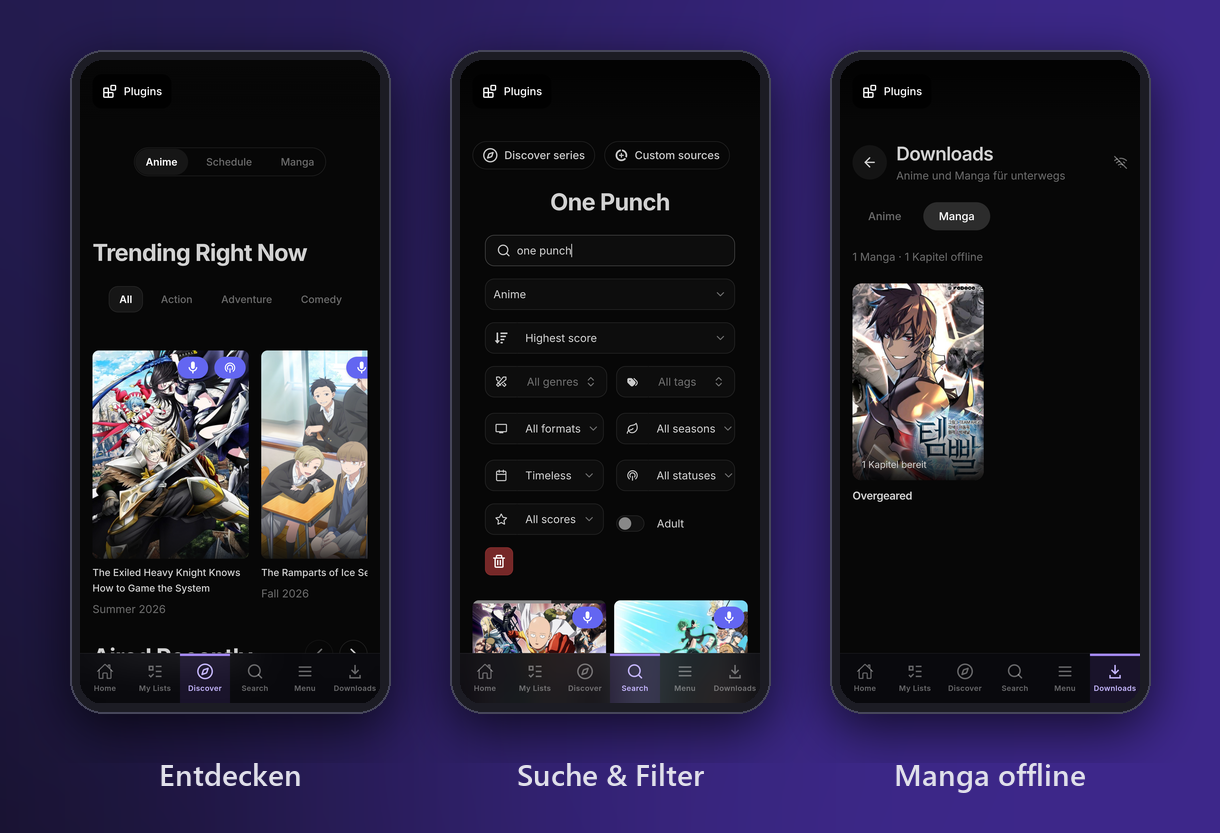
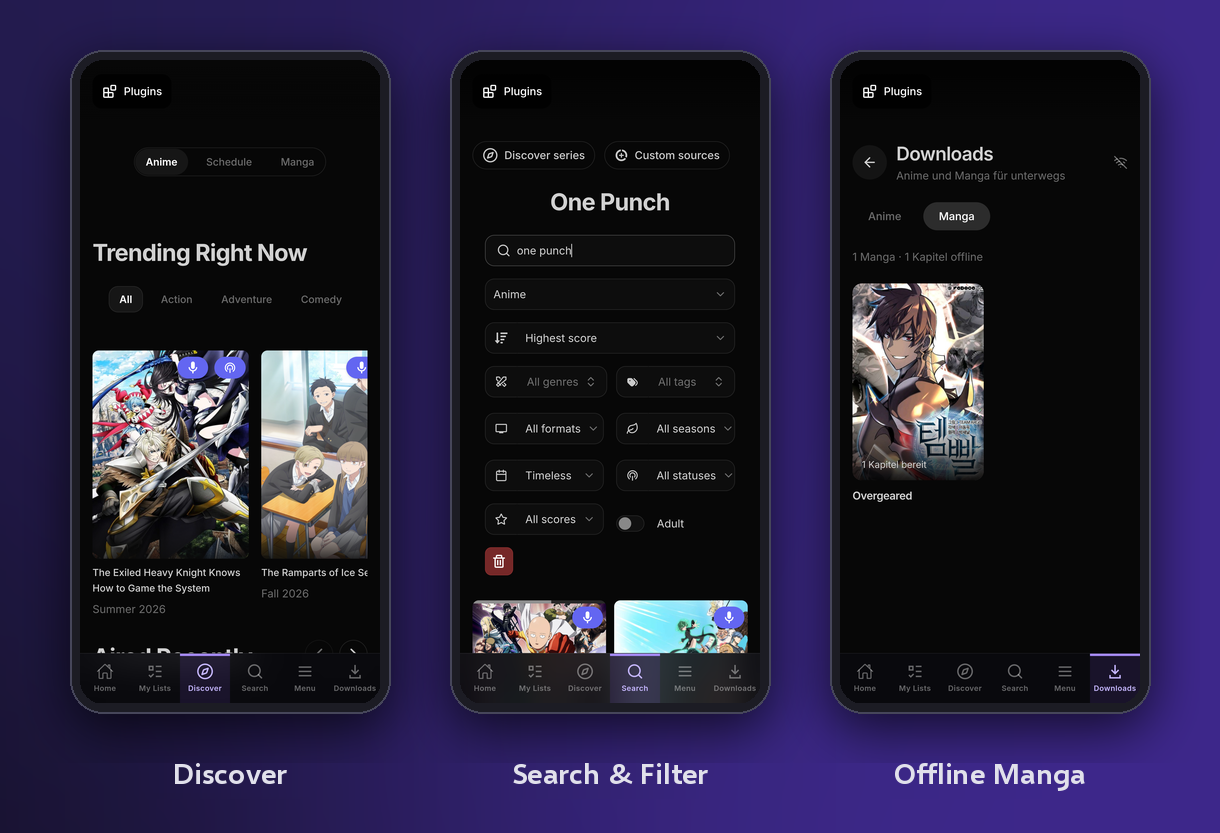
Translate README and screenshot captions to English

Changed region(s): [[0.7164, 0.9052, 0.9033, 0.9676], [0.4049, 0.9052, 0.5918, 0.9676], [0.1246, 0.9052, 0.2492, 0.9676]]

diff --git a/README.md b/README.md
@@ -6,123 +6,125 @@
   <a href="https://github.com/Lampe332/seanime-mobile/releases/latest"><img src="https://img.shields.io/github/v/release/Lampe332/seanime-mobile?style=for-the-badge&color=7c5cff&label=Version" alt="Version"></a>
   <a href="https://github.com/Lampe332/seanime-mobile/releases/latest"><img src="https://img.shields.io/github/downloads/Lampe332/seanime-mobile/total?style=for-the-badge&color=7c5cff&label=Downloads" alt="Downloads"></a>
   <img src="https://img.shields.io/badge/Android-5.0%2B-3ddc84?style=for-the-badge&logo=android&logoColor=white" alt="Android 5.0+">
-  <a href="LICENSE"><img src="https://img.shields.io/github/license/Lampe332/seanime-mobile?style=for-the-badge&color=555" alt="Lizenz"></a>
+  <a href="LICENSE"><img src="https://img.shields.io/github/license/Lampe332/seanime-mobile?style=for-the-badge&color=555" alt="License"></a>
 </p>
 
 <p align="center">
-  <a href="https://github.com/Lampe332/seanime-mobile/releases/latest/download/Seanime-Mobile-1.7.0.apk"><b>⬇ APK herunterladen</b></a>
-  &nbsp;·&nbsp; <a href="#-installation-auf-dem-handy">Installation</a>
-  &nbsp;·&nbsp; <a href="#-erste-einrichtung">Einrichtung</a>
-  &nbsp;·&nbsp; <a href="#-tutorial-video">Tutorial-Video</a>
-  &nbsp;·&nbsp; <a href="docs/BUILD.md">Selbst bauen</a>
+  <a href="https://github.com/Lampe332/seanime-mobile/releases/latest/download/Seanime-Mobile-1.7.0.apk"><b>⬇ Download APK</b></a>
+  &nbsp;·&nbsp; <a href="#-installing-on-your-phone">Installation</a>
+  &nbsp;·&nbsp; <a href="#-first-time-setup">Setup</a>
+  &nbsp;·&nbsp; <a href="#-tutorial-video">Tutorial video</a>
+  &nbsp;·&nbsp; <a href="docs/BUILD.md">Build it yourself</a>
   &nbsp;·&nbsp; <a href="CHANGELOG.md">Changelog</a>
 </p>
 
 ---
 
-**Seanime Mobile** bringt [Seanime](https://github.com/5rahim/seanime) komplett aufs Android-Handy: Der Seanime-Server läuft direkt auf dem Gerät, die Oberfläche ist für Touch angepasst. Kein PC, kein eigener Server nötig. Anime streamen, ganze Staffeln herunterladen und unterwegs offline schauen. Dazu kommen Manga, AniList-Sync und ein Veröffentlichungskalender.
+**Seanime Mobile** brings [Seanime](https://github.com/5rahim/seanime) entirely to your Android phone: the Seanime server runs directly on the device, and the interface is adapted for touch. No PC and no server of your own required. Stream anime, download whole seasons and watch offline on the go. On top of that you get manga, AniList sync and a release calendar.
 
-## ✨ Funktionen
+## ✨ Features
 
-| Funktion | Beschreibung |
+| Feature | Description |
 |---|---|
-| 📺 **Streamen** | Anime über Online-Streaming-Erweiterungen direkt in der App schauen |
-| ⬇ **Staffel-Downloads** | Ganze Staffel, „ab Folge …“ oder einzelne Folgen herunterladen, mit Warteschlange, die einen App-Neustart übersteht |
-| ✈ **Offline schauen** | Eigener Offline-Player mit Vollbild, −5/+10 s, Tempo, Untertiteln und Fortsetzen; Cover und Infos bleiben offline sichtbar |
-| 📚 **Manga** | Kapitel lesen und herunterladen, offline im Reader öffnen |
-| 📅 **Kalender** | Monatskalender mit allen Folgen deiner AniList-Liste oder aller Anime, filterbar nach Status |
-| 🔄 **AniList** | Listen, Fortschritt und Bewertungen werden mit AniList synchronisiert |
-| 🧩 **Erweiterungen & Plugins** | Quellen und Plugins aus dem Seanime-Ökosystem |
-| 🧭 **Einrichtungs-Tutorial** | Interaktive Tour beim ersten Start zeigt, wie man ein Repository hinzufügt und Quellen installiert |
+| 📺 **Streaming** | Watch anime right in the app via online streaming extensions |
+| ⬇ **Season downloads** | Download a whole season, "from episode …" or single episodes, with a queue that survives an app restart |
+| ✈ **Offline viewing** | Dedicated offline player with fullscreen, −5/+10 s, playback speed, subtitles and resume; covers and info stay visible offline |
+| 📚 **Manga** | Read and download chapters, open them offline in the reader |
+| 📅 **Calendar** | Monthly calendar with all episodes from your AniList list or from all anime, filterable by status |
+| 🔄 **AniList** | Lists, progress and ratings are synced with AniList |
+| 🧩 **Extensions & plugins** | Sources and plugins from the Seanime ecosystem |
+| 🧭 **Setup tutorial** | An interactive tour on first launch shows how to add a repository and install sources |
 
 ## 📱 Screenshots
 
-<p align="center"><img src="docs/images/gallery-discover.png" alt="Startseite, Sendeplan, Kalender, Anime-Details" width="100%"></p>
-<p align="center"><img src="docs/images/gallery-offline.png" alt="Staffel laden, Downloads, Deine Folgen, Offline-Player" width="100%"></p>
-<p align="center"><img src="docs/images/gallery-more.png" alt="Entdecken, Suche, Manga offline" width="76%"></p>
+<p align="center"><img src="docs/images/gallery-discover.png" alt="Home, airing schedule, calendar, anime details" width="100%"></p>
+<p align="center"><img src="docs/images/gallery-offline.png" alt="Season download, downloads, your episodes, offline player" width="100%"></p>
+<p align="center"><img src="docs/images/gallery-more.png" alt="Discover, search, offline manga" width="76%"></p>
 
-## 📲 Installation auf dem Handy
+> The app's own interface is currently partly in German, so some labels inside the screenshots are German.
 
-1. Auf dem Handy die neueste **[Seanime-Mobile-APK](https://github.com/Lampe332/seanime-mobile/releases/latest)** öffnen und unter *Assets* die `.apk` herunterladen.
-2. Die heruntergeladene Datei antippen (Benachrichtigung oder *Eigene Dateien → Downloads*).
-3. Android fragt beim ersten Mal nach der Berechtigung **„Unbekannte Apps installieren“**. Für den Browser bzw. Dateimanager erlauben und zurückgehen.
-4. **Installieren** tippen. Fertig: Die App heißt *Seanime Mobile*.
+## 📲 Installing on your phone
 
-> **Update:** Neue APK einfach drüber installieren, Daten und Downloads bleiben erhalten.
-> **Play Protect** warnt eventuell, weil die App nicht aus dem Play Store kommt. *Trotzdem installieren* wählen.
+1. On your phone, open the latest **[Seanime Mobile APK](https://github.com/Lampe332/seanime-mobile/releases/latest)** and download the `.apk` under *Assets*.
+2. Tap the downloaded file (from the notification or *My Files → Downloads*).
+3. The first time, Android asks for the **"Install unknown apps"** permission. Allow it for your browser or file manager and go back.
+4. Tap **Install**. Done: the app is called *Seanime Mobile*.
 
-Unterstützt: Android 5.0 oder neuer, ARM64 und ARMv7 (praktisch alle Handys der letzten Jahre). Getestet auf Samsung Galaxy S22 Ultra.
+> **Updating:** Simply install the new APK over the old one; your data and downloads are kept.
+> **Play Protect** may show a warning because the app doesn't come from the Play Store. Choose *Install anyway*.
 
-## 🚀 Erste Einrichtung
+Supported: Android 5.0 or newer, ARM64 and ARMv7 (practically every phone from recent years). Tested on a Samsung Galaxy S22 Ultra.
 
-1. **App öffnen.** Ein kurzer Assistent fragt nach einem Anime-Ordner (optional, leer lassen ist ok) und den Funktionen. **Launch Seanime** tippen. Android fragt außerdem nach Dateizugriff (*Use streaming* reicht) und Benachrichtigungen (für den Download-Fortschritt).
-2. **Mit AniList anmelden.** Im Dialog **Get AniList token** tippen, im Browser bestätigen und den Token einfügen. Ein kostenloses Konto gibt es auf [anilist.co](https://anilist.co). Ohne Anmeldung den Dialog mit ✕ schließen, dann nutzt die App ein lokales Konto.
-3. **Quellen hinzufügen.** Danach startet automatisch ein **interaktives Tutorial**, das dich durch die folgenden Schritte führt ([Video](#-tutorial-video)). Später erneut starten: *Settings → Extensions → Show tutorial*.
-   Die App bringt **keine** Streaming- oder Manga-Quellen mit. Der offizielle Seanime-Marktplatz enthält nur Plugins. Quellen kommen aus Community-Repositories, die du selbst hinzufügst:
-   1. *Menu → Extensions* öffnen und oben den Tab **Marketplace** wählen.
-   2. **Change repository** tippen und die **Repository-URL** einfügen (eine Adresse, die auf eine `.json`-Datei endet). Passende Seanime-Extension-Repositories findest du online in der Seanime-Community.
-   3. Die Liste lädt neu. Oben **Online Streaming** (bzw. **Manga**) wählen und bei der gewünschten Erweiterung auf das **Download-Symbol** tippen.
-   4. Alternativ: im Tab *Installed* → **Add extensions** → **Import from repository**. Damit werden alle Erweiterungen eines Repositories auf einmal installiert.
+## 🚀 First-time setup
 
-   Ohne Erweiterung kann die App Anime und Manga nur anzeigen, nicht abspielen bzw. lesen. Torrent-Erweiterungen funktionieren in der Android-Version nicht.
-4. **Loslegen.** Anime antippen → *Online streaming* zum Schauen oder *Staffel / Folgen herunterladen* für offline. Gespeichertes findest du unten im Tab **Downloads**.
+1. **Open the app.** A short wizard asks for an anime folder (optional, leaving it empty is fine) and which features to use. Tap **Launch Seanime**. Android will also ask for file access (*Use streaming* is enough) and notifications (for download progress).
+2. **Log in with AniList.** In the dialog, tap **Get AniList token**, confirm in the browser and paste the token. You can create a free account at [anilist.co](https://anilist.co). To skip login, close the dialog with ✕ and the app will use a local account.
+3. **Add sources.** An **interactive tutorial** then starts automatically and guides you through the following steps ([video](#-tutorial-video)). To run it again later: *Settings → Extensions → Show tutorial*.
+   The app ships **without** any streaming or manga sources. The official Seanime marketplace only contains plugins. Sources come from community repositories that you add yourself:
+   1. Open *Menu → Extensions* and select the **Marketplace** tab at the top.
+   2. Tap **Change repository** and paste the **repository URL** (an address ending in a `.json` file). You can find suitable Seanime extension repositories online in the Seanime community.
+   3. The list reloads. Select **Online Streaming** (or **Manga**) at the top and tap the **download icon** next to the extension you want.
+   4. Alternatively: in the *Installed* tab → **Add extensions** → **Import from repository**. This installs all extensions from a repository at once.
 
-## 🎬 Tutorial-Video
+   Without an extension, the app can only display anime and manga, not play or read them. Torrent extensions do not work in the Android version.
+4. **Get started.** Tap an anime → *Online streaming* to watch, or *Download season / episodes* for offline viewing. Your saved content is in the **Downloads** tab at the bottom.
 
-So sieht der erste Start mit dem eingebauten Tutorial aus: Assistent, Repository hinzufügen, Streaming-Erweiterung installieren. Die Repository-Adresse und die Namen der Erweiterungen sind im Video unkenntlich gemacht.
+## 🎬 Tutorial video
+
+This is what the first launch with the built-in tutorial looks like: wizard, adding a repository, installing a streaming extension. The repository address and the extension names are blurred in the video.
 
 <p align="center">
-  <img src="docs/images/tutorial.gif" alt="Tutorial: Repository hinzufügen und Erweiterung installieren" width="300">
+  <img src="docs/images/tutorial.gif" alt="Tutorial: adding a repository and installing an extension" width="300">
 </p>
-<p align="center"><a href="docs/images/tutorial.mp4">▶ Video in voller Qualität (MP4)</a></p>
+<p align="center"><a href="docs/images/tutorial.mp4">▶ Full-quality video (MP4)</a></p>
 
-## ❓ Häufige Fragen
+## ❓ FAQ
 
 <details>
-<summary><b>„App nicht installiert“ beim Update</b></summary>
+<summary><b>"App not installed" when updating</b></summary>
 
-Die neue APK muss mit demselben Schlüssel signiert sein wie die installierte. Das ist bei allen offiziellen Releases hier der Fall. Wenn du vorher eine selbst gebaute oder fremde Version installiert hattest, die alte App zuerst deinstallieren (dabei gehen lokale Downloads verloren).
+The new APK must be signed with the same key as the installed one. That is the case for all official releases here. If you previously installed a self-built or third-party version, uninstall the old app first (local downloads will be lost).
 </details>
 
 <details>
-<summary><b>„No content providers available“ / keine Streaming-Quellen</b></summary>
+<summary><b>"No content providers available" / no streaming sources</b></summary>
 
-Das ist normal bei einer frischen Installation: Der Standard-Marktplatz enthält keine Streaming- oder Manga-Quellen. Füge wie unter [Erste Einrichtung](#-erste-einrichtung), Schritt 3, ein Community-Repository hinzu. Dieses Projekt verlinkt bewusst keine Quellen und hat mit deren Inhalten nichts zu tun.
+This is normal on a fresh install: the default marketplace contains no streaming or manga sources. Add a community repository as described in [First-time setup](#-first-time-setup), step 3. This project deliberately does not link to any sources and has nothing to do with their content.
 </details>
 
 <details>
-<summary><b>Eine Folge spielt nicht ab</b></summary>
+<summary><b>An episode won't play</b></summary>
 
-Meist liegt es an der Quelle. Im Player bzw. auf der Animeseite eine andere Erweiterung wählen oder unter *Menu → Extensions* die Erweiterungen aktualisieren.
+It's usually the source. Pick a different extension in the player or on the anime page, or update your extensions under *Menu → Extensions*.
 </details>
 
 <details>
-<summary><b>Gibt es Torrents?</b></summary>
+<summary><b>Are there torrents?</b></summary>
 
-Nein. Torrent- und Debrid-Funktionen sind in der Android-Version bewusst deaktiviert. Downloads laufen über direkte MP4-/HLS-Quellen.
+No. Torrent and debrid features are deliberately disabled in the Android version. Downloads use direct MP4/HLS sources.
 </details>
 
 <details>
-<summary><b>Wo liegen meine Downloads?</b></summary>
+<summary><b>Where are my downloads stored?</b></summary>
 
-Im privaten App-Speicher. Sie sind nur in der App unter *Downloads* sichtbar und werden beim Deinstallieren gelöscht.
+In the app's private storage. They are only visible inside the app under *Downloads* and are deleted when you uninstall it.
 </details>
 
-## 🛠 Selbst bauen
+## 🛠 Build it yourself
 
-Das Repository enthält den kompletten Quellcode: Android-App (Kotlin), Seanime-Backend (Go) und Oberfläche (React). Die Schritt-für-Schritt-Anleitung steht in **[docs/BUILD.md](docs/BUILD.md)**.
+The repository contains the complete source code: Android app (Kotlin), Seanime backend (Go) and interface (React). Step-by-step instructions are in **[docs/BUILD.md](docs/BUILD.md)**.
 
 ```
-app/            Android-App (Kotlin, WebView, Offline-Player, Download-Dienst)
-backend/        Seanime-Server (Go) + Weboberfläche (backend/seanime-web, React)
-docs/           Bau-Anleitung, Bilder, Upstream-Doku, Entwicklungsnotizen
-tests/          Navigations- und Plugin-Tests (Python/Playwright)
-Build.ps1       Kompletter Release-Build inkl. Backend
+app/            Android app (Kotlin, WebView, offline player, download service)
+backend/        Seanime server (Go) + web interface (backend/seanime-web, React)
+docs/           Build guide, images, upstream docs, development notes
+tests/          Navigation and plugin tests (Python/Playwright)
+Build.ps1       Full release build including the backend
 ```
 
-## 🙏 Credits & Lizenz
+## 🙏 Credits & license
 
-- [**Seanime**](https://github.com/5rahim/seanime) von 5rahim: Backend und Weboberfläche
-- [**Seanime Android**](https://github.com/Pal-droid/Seanime-Android) von Pal-droid: ursprüngliche Android-Portierung ([Original-README](docs/upstream/README.md))
+- [**Seanime**](https://github.com/5rahim/seanime) by 5rahim: backend and web interface
+- [**Seanime Android**](https://github.com/Pal-droid/Seanime-Android) by Pal-droid: original Android port ([original README](docs/upstream/README.md))
 
-Seanime Mobile ist ein unabhängiger Fork und steht wie das Original unter der **GPL-3.0** ([LICENSE](LICENSE)). Diese App hostet keine Inhalte; sie zeigt nur an, was installierte Erweiterungen liefern.
+Seanime Mobile is an independent fork and, like the original, is licensed under the **GPL-3.0** ([LICENSE](LICENSE)). This app does not host any content; it only displays what installed extensions provide.
